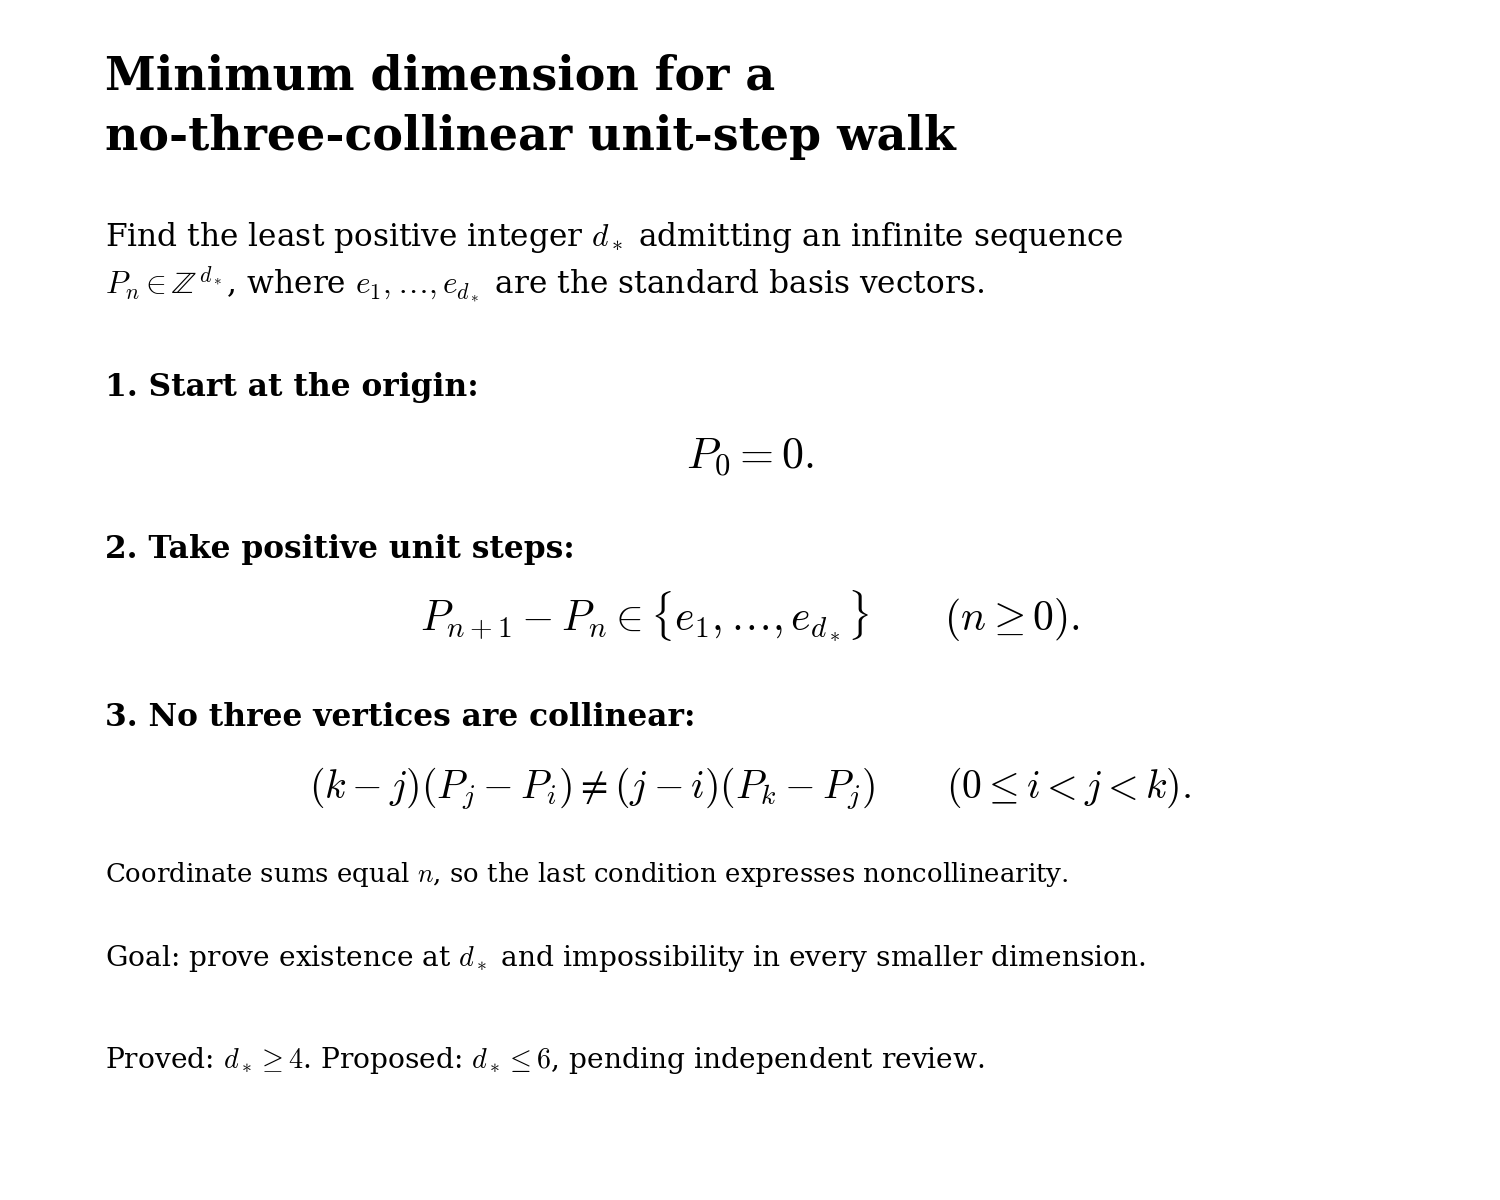
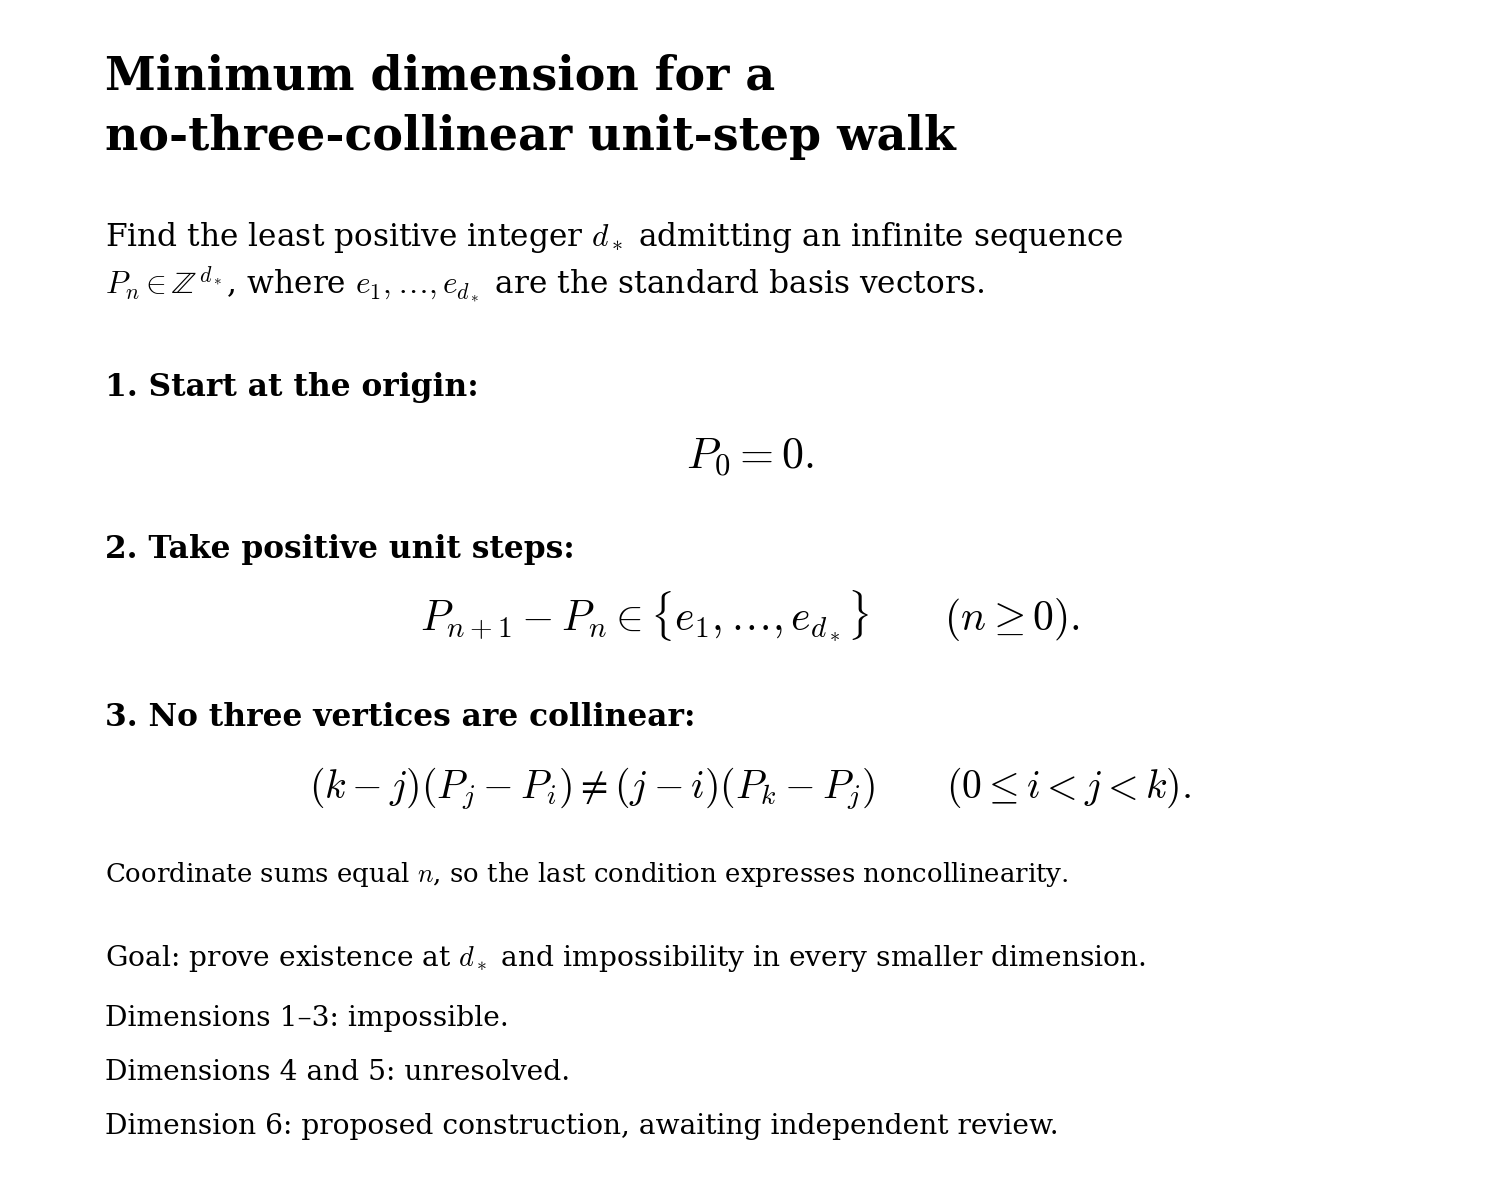
Clarify dimension-by-dimension proof status in problem statement

Changed region(s): [[0.0613, 0.8325, 0.644, 0.8942], [0.0613, 0.925, 0.7053, 0.9558]]

diff --git a/research/unit-step/render_problem.py b/research/unit-step/render_problem.py
@@ -59,8 +59,8 @@ def main():
         event("start", identity=identity, threads=1, completed=0, total=1, eta_seconds=5, checkpoint=str(checkpoint))
         statement = source.split("\n## Exactly equivalent combinatorial problem\n", 1)[0]
         displays = [re.sub(r"\s+", " ", s).strip() for s in re.findall(r"\$\$(.*?)\$\$", statement, re.S)]
-        assert len(displays) == 3 and "$P_0=0$" in source
-        steps, triples = displays[:2]
+        assert len(displays) == 2 and "$P_0=0$" in source
+        steps, triples = displays
         plt.rcParams.update({"font.family": "DejaVu Serif", "mathtext.fontset": "cm", "font.size": 15})
         fig = plt.figure(figsize=(10, 8), facecolor="white")
         def text(x, y, value, **options):
@@ -78,7 +78,9 @@ def main():
         text(.50, .335, "$" + triples + "$", ha="center", fontsize=19)
         text(.07, .265, r"Coordinate sums equal $n$, so the last condition expresses noncollinearity.", fontsize=12.5)
         text(.07, .195, r"Goal: prove existence at $d_*$ and impossibility in every smaller dimension.", fontsize=13.5)
-        text(.07, .110, r"Proved: $d_*\geq4$. Proposed: $d_*\leq6$, pending independent review.", fontsize=13.5)
+        text(.07, .145, "Dimensions 1–3: impossible.", fontsize=13.5)
+        text(.07, .100, "Dimensions 4 and 5: unresolved.", fontsize=13.5)
+        text(.07, .055, "Dimension 6: proposed construction, awaiting independent review.", fontsize=13.5)
         temporary = paths[0].with_suffix(".png.tmp")
         fig.savefig(temporary, format="png", dpi=identity["dpi"], facecolor="white", metadata={"Software": "Matplotlib " + matplotlib.__version__})
         plt.close(fig)
@@ -98,8 +100,11 @@ Here $e_1,\ldots,e_{d_*}$ are the standard basis vectors. The coordinate sum
 of $P_n$ is $n$, so the last condition is equivalent to noncollinearity.
 
 Prove existence in dimension $d_*$ and impossibility in every smaller dimension.
-The lower bound $d_*\ge4$ is proved. The proposed upper bound $d_*\le6$
-awaits independent review.
+\begin{itemize}
+\item Dimensions 1--3: impossible.
+\item Dimensions 4 and 5: unresolved.
+\item Dimension 6: proposed construction, awaiting independent review.
+\end{itemize}
 \end{document}
 """
         temporary = paths[1].with_suffix(".tex.tmp")

diff --git a/research/unit-step/unit-step-problem.tex b/research/unit-step/unit-step-problem.tex
@@ -17,6 +17,9 @@ Here $e_1,\ldots,e_{d_*}$ are the standard basis vectors. The coordinate sum
 of $P_n$ is $n$, so the last condition is equivalent to noncollinearity.
 
 Prove existence in dimension $d_*$ and impossibility in every smaller dimension.
-The lower bound $d_*\ge4$ is proved. The proposed upper bound $d_*\le6$
-awaits independent review.
+\begin{itemize}
+\item Dimensions 1--3: impossible.
+\item Dimensions 4 and 5: unresolved.
+\item Dimension 6: proposed construction, awaiting independent review.
+\end{itemize}
 \end{document}

diff --git a/research/unit-step/PROBLEM.md b/research/unit-step/PROBLEM.md
@@ -28,9 +28,9 @@ of $P_n$ sum to $n$.
 
 ## Current proof status
 
-$$
-\boxed{d_*\ge4\text{ is proved};\qquad d_*\le6\text{ is proposed, pending independent review}.}
-$$
+- **Dimensions 1–3:** impossible.
+- **Dimensions 4 and 5:** unresolved.
+- **Dimension 6:** proposed construction, awaiting independent review.
 
 Thus the working target is $d_*\in\{4,5,6\}$, subject to vetting the six-dimensional
 draft. This is a problem to solve, **not a conjecture that $d_*=6$**. Existence
